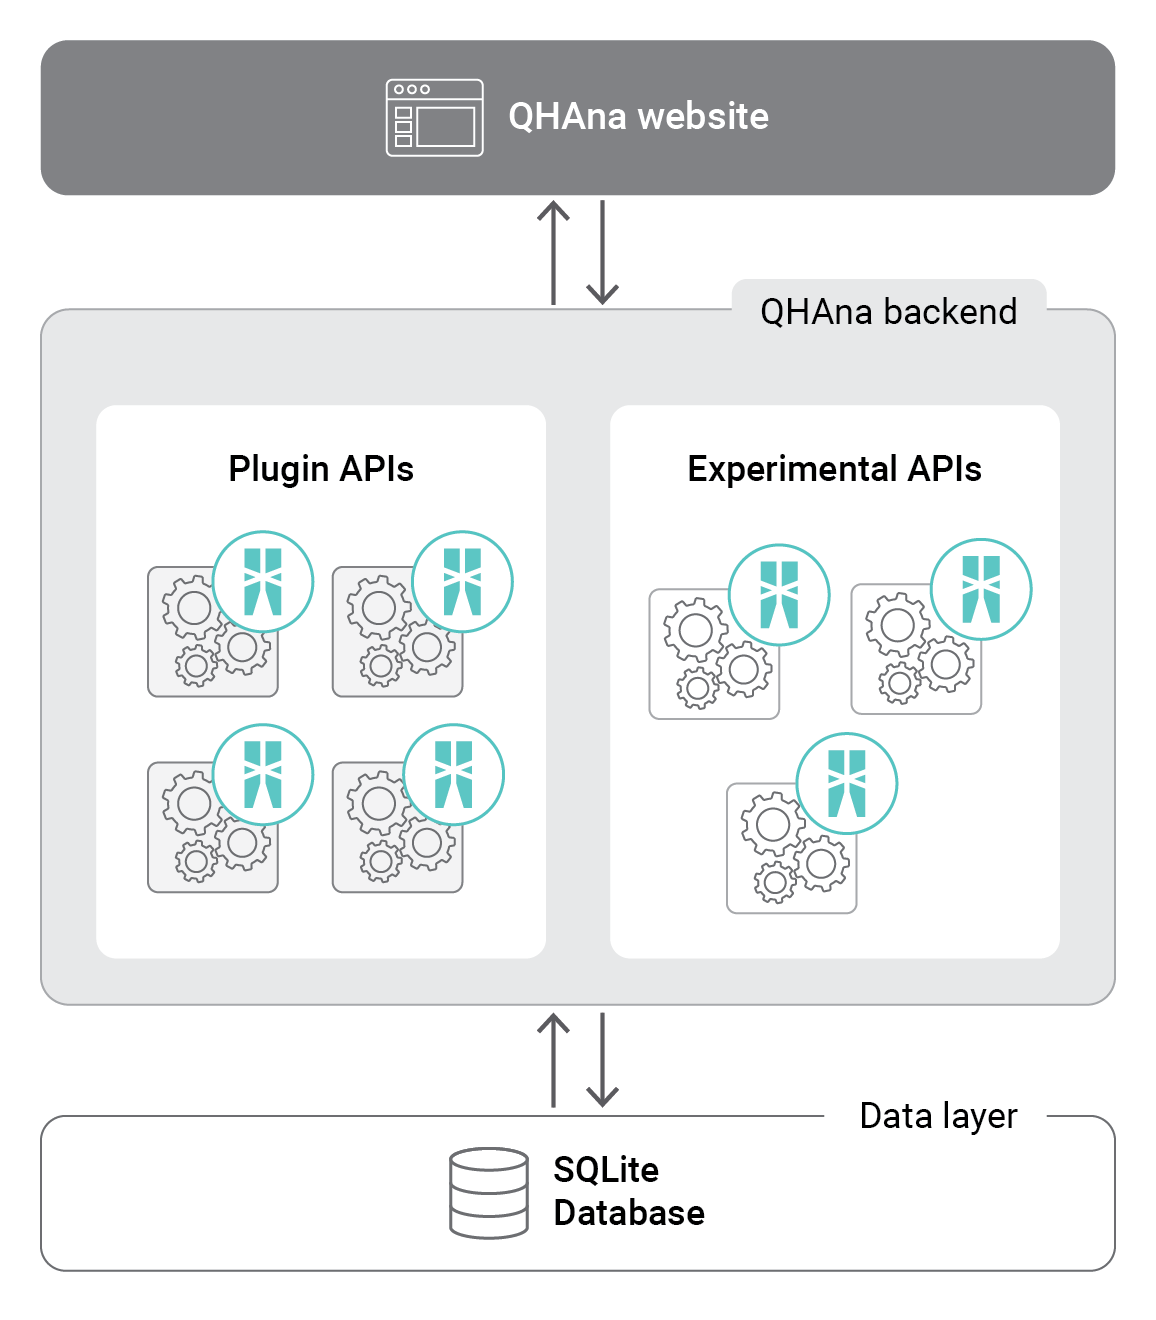
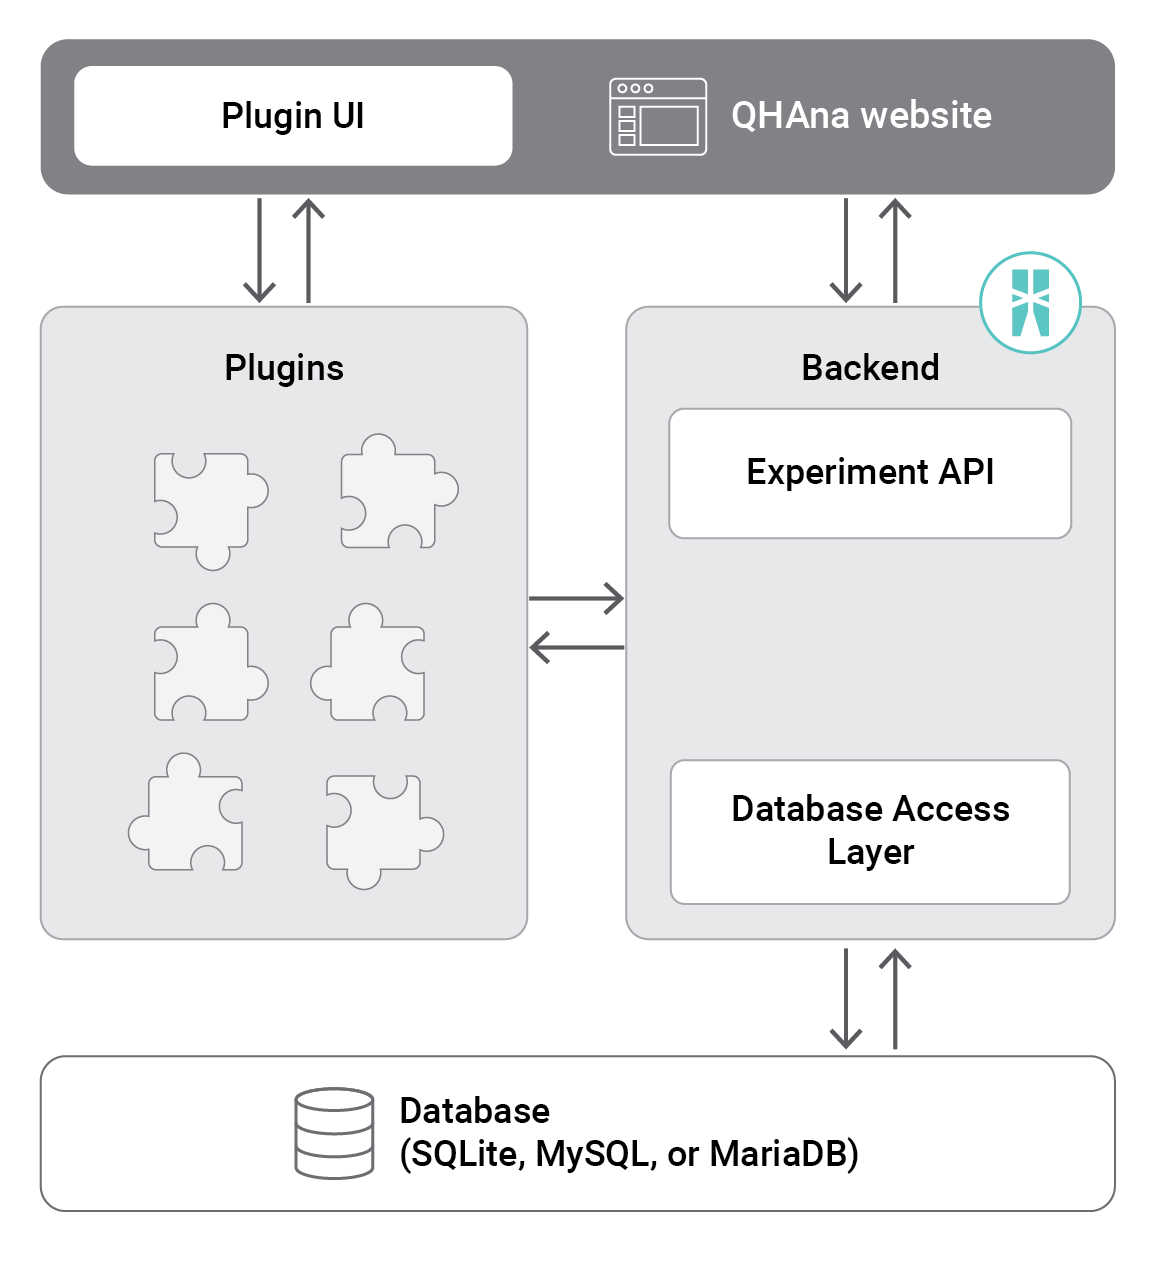
Update the QHAna case study content after the review

diff --git a/case-studies/qhana.md b/case-studies/qhana.md
@@ -11,22 +11,24 @@ user: 'qhana'
 
 ## Overview
 
-The [Application component](https://quantil.readthedocs.io/en/latest/) of [QuAntiL](https://www.iaas.uni-stuttgart.de/forschung/projekte/quantil/) incorporates tools and quantum algorithm implementations tailored to address specific use cases. Notably, the [Quantum Humanities Analysis (QHAna)](https://quantil.readthedocs.io/en/latest/user-guide/qhana/) features an intelligent tool set that employs machine-learning techniques compatible with classical and quantum hardware. Specifically created for integration with the [MUSE Repository](https://www.iaas.uni-stuttgart.de/publications/INBOOK-2018-05-MUSE.pdf), it offers extensive techniques primarily focused on categorical data. The backend driving QHAna is developed using the Ballerina programming language.
+The [Application component](https://www.iaas.uni-stuttgart.de/forschung/projekte/quantil/) of [QuAntiL](https://quantil.readthedocs.io/en/latest/) incorporates tools and quantum algorithm implementations tailored to address specific use cases. Notably, the Quantum Humanities Analysis Tool (QHAna) features an intelligent toolset that employs machine-learning techniques compatible with classical and quantum hardware. Specifically created for integration with the MUSE Repository, it offers extensive techniques primarily focused on categorical data. The backend driving QHAna is developed using the Ballerina programming language.
 
 ## Challenges
 
-Developing the QHAna backend presented several challenges that required careful consideration of effective solutions. Handling transactions within the backend posed complexities, as it involved managing multiple operations to maintain data consistency and reliability. Additionally, connecting QHAna backend services with a database proved to be a notable challenge, demanding the establishment of a seamless connection to ensure efficient data retrieval, storage, and management. Another significant challenge involved the integration of services easily and efficiently. QHAna's backend required a programming language that could simplify the creation of services, allowing for a modular and scalable architecture. Overcoming these challenges was crucial for the successful development of the QHAna backend.
+Developing the QHAna backend presented several challenges that required careful consideration of effective solutions. Handling transactions within the backend posed complexities, as it involved managing multiple operations to maintain data consistency and reliability. Additionally, connecting QHAna backend services with a database proved to be a notable challenge, demanding the establishment of a seamless connection to ensure efficient data retrieval, storage, and management. Another significant challenge involved the integration of services easily and efficiently. Also, implementing the Experiment API of the QHAna backend required a programming language that could simplify the creation and operation of services, allowing for a service-based architecture. Overcoming these challenges was crucial for the successful development of the QHAna backend.
 
 ## Solution
 
-As illustrated in the diagram below, the solution encompasses the QHAna backend written in Ballerina, featuring two primary types of Ballerina APIs: `Plugin APIs` and `Experiment APIs`. This backend interfaces with the QHAna website, which serves as the front end and is expected to establish resilient communications with the SQLite database for data storage and retrieval.
+As illustrated in the diagram below, the solution encompasses the QHAna backend written in Ballerina, featuring the `Experiment` API, which connects with the services and collects the data and order of operations during the experiment. This backend interfaces with the web-based QHAna user interface, which serves as the front end and is expected to establish resilient communications with the QHAna backend for data storage and retrieval.
 
 <img src="/images/case-studies/qhana-solution-diagram.png" alt="QHAna solution diagram" width="546" height="780" style='width:auto !important; padding-top:20px; padding-bottom:20px;'>
 
 ## Benefits
 
-The utilization of Ballerina in the QHAna backend yields a diverse set of benefits, effectively addressing challenges and elevating the overall development of the system. Ballerina's cloud-based integration capabilities play a pivotal role in ensuring the reliability and consistency of QHAna's operations, even when transactions involve processes that are distributed across multiple database calls. Additionally, Ballerina's built-in support for database management contributed significantly to the accuracy and reliability of QHAna's machine-learning project management. Furthermore, Ballerina's syntax and framework allowed the QHAna backend to leverage Ballerina's language features in creating modular and well-structured services efficiently. 
+The utilization of Ballerina in the QHAna backend yields a diverse set of benefits, effectively addressing challenges and elevating the overall development of the system. Ballerina's cloud-based integration capabilities play a pivotal role in ensuring the reliability and consistency of QHAna's operations, even when transactions involve processes that are distributed across multiple database calls. Additionally, Ballerina's built-in support for database management contributed significantly to the accuracy and reliability of QHAna's machine-learning project management. Furthermore, Ballerina's syntax and framework allowed the QHAna backend to leverage Ballerina's language features in implementing the `Experiment` API, which is one of the crucial parts of its architecture, in an efficient manner. 
 
 ## Conclusion
 
 By seamlessly integrating with QHAna, Ballerina demonstrates its capacity to proficiently manage the complexities of backend development, providing a robust foundation for the intricate demands of quantum humanities analysis. The symbiotic relationship between the two not only emphasizes the language's adaptability but also its pivotal role in contributing to the reliability and scalability essential for the success of advanced analytical processes within the realm of quantum humanities.
+
+>*Ballerina, with its strong and feature-rich type system, is well suited for creating and integrating services. Important information like transactional contexts are visible at a glance, thanks to the built-in support of transactions with syntax-level features and compiler checks.*<br/><br/> Fabian Bühler  - Research Associate, Institute of Architecture of Application Systems (IAAS), University of Stuttgart.
